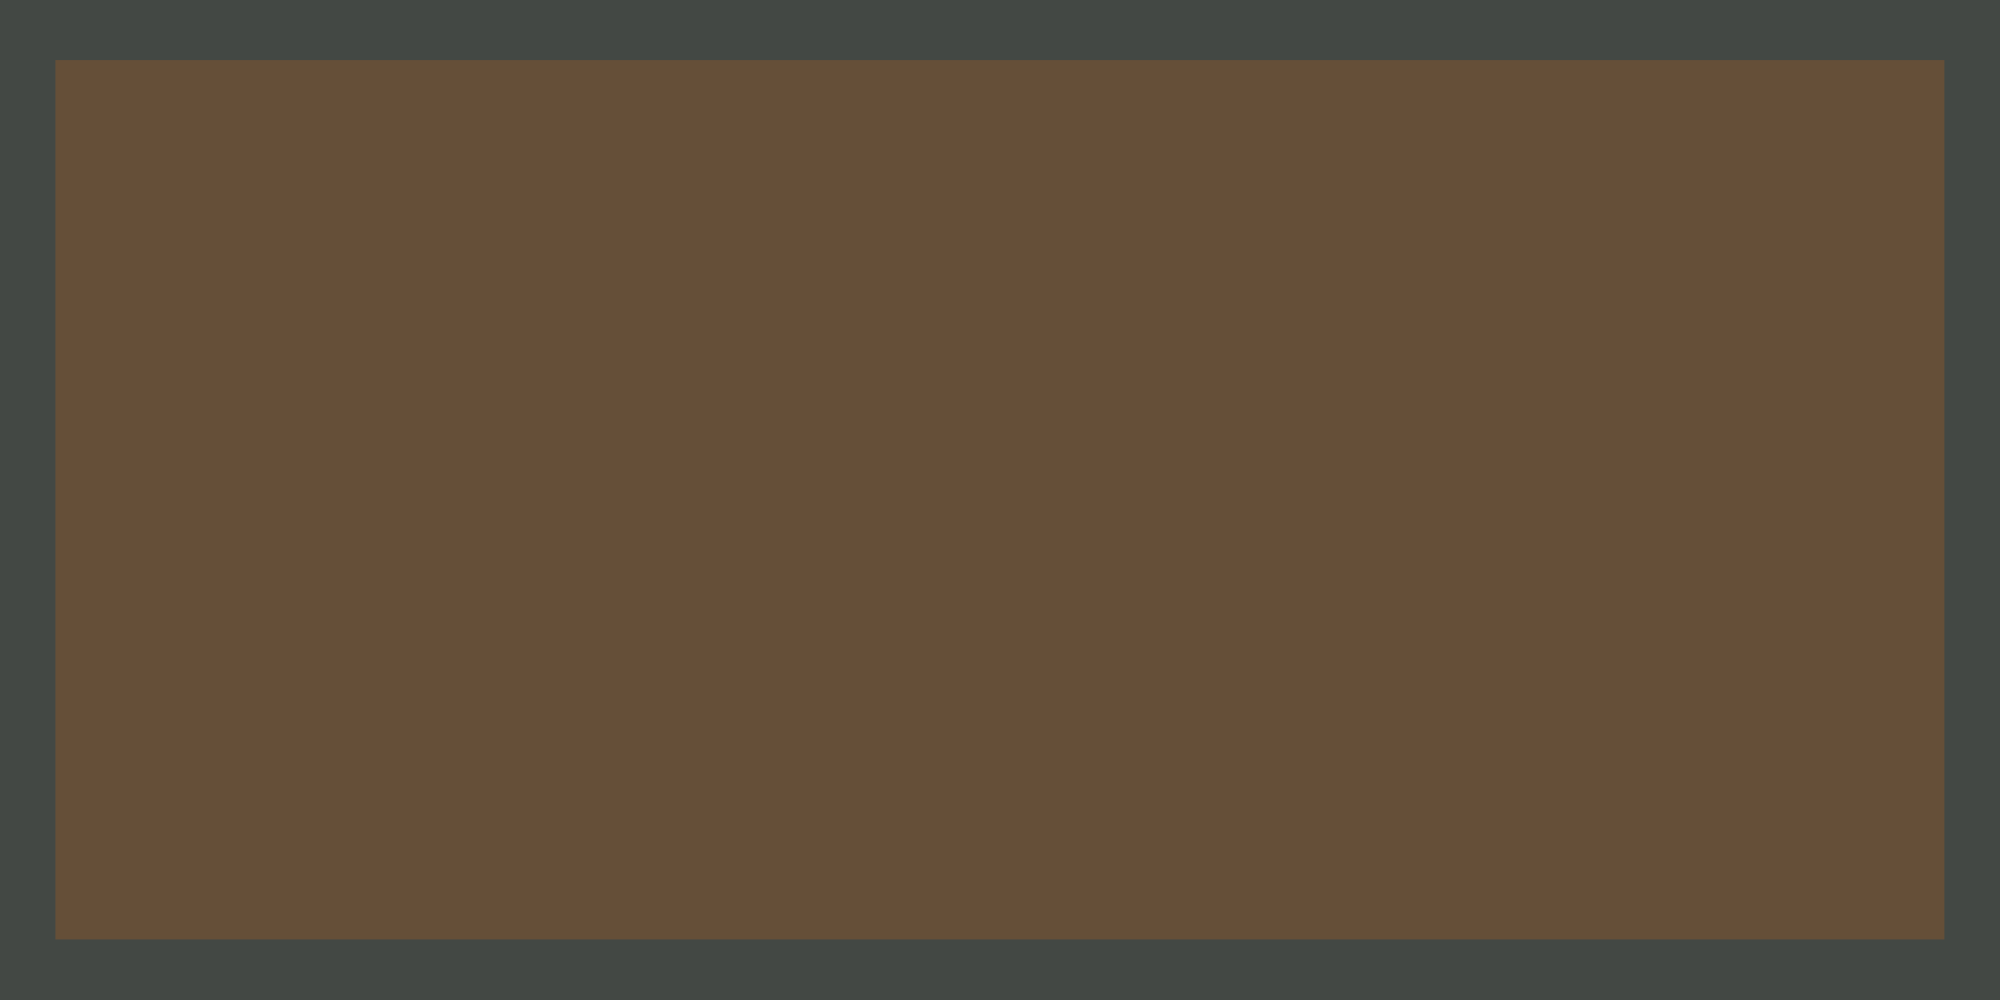
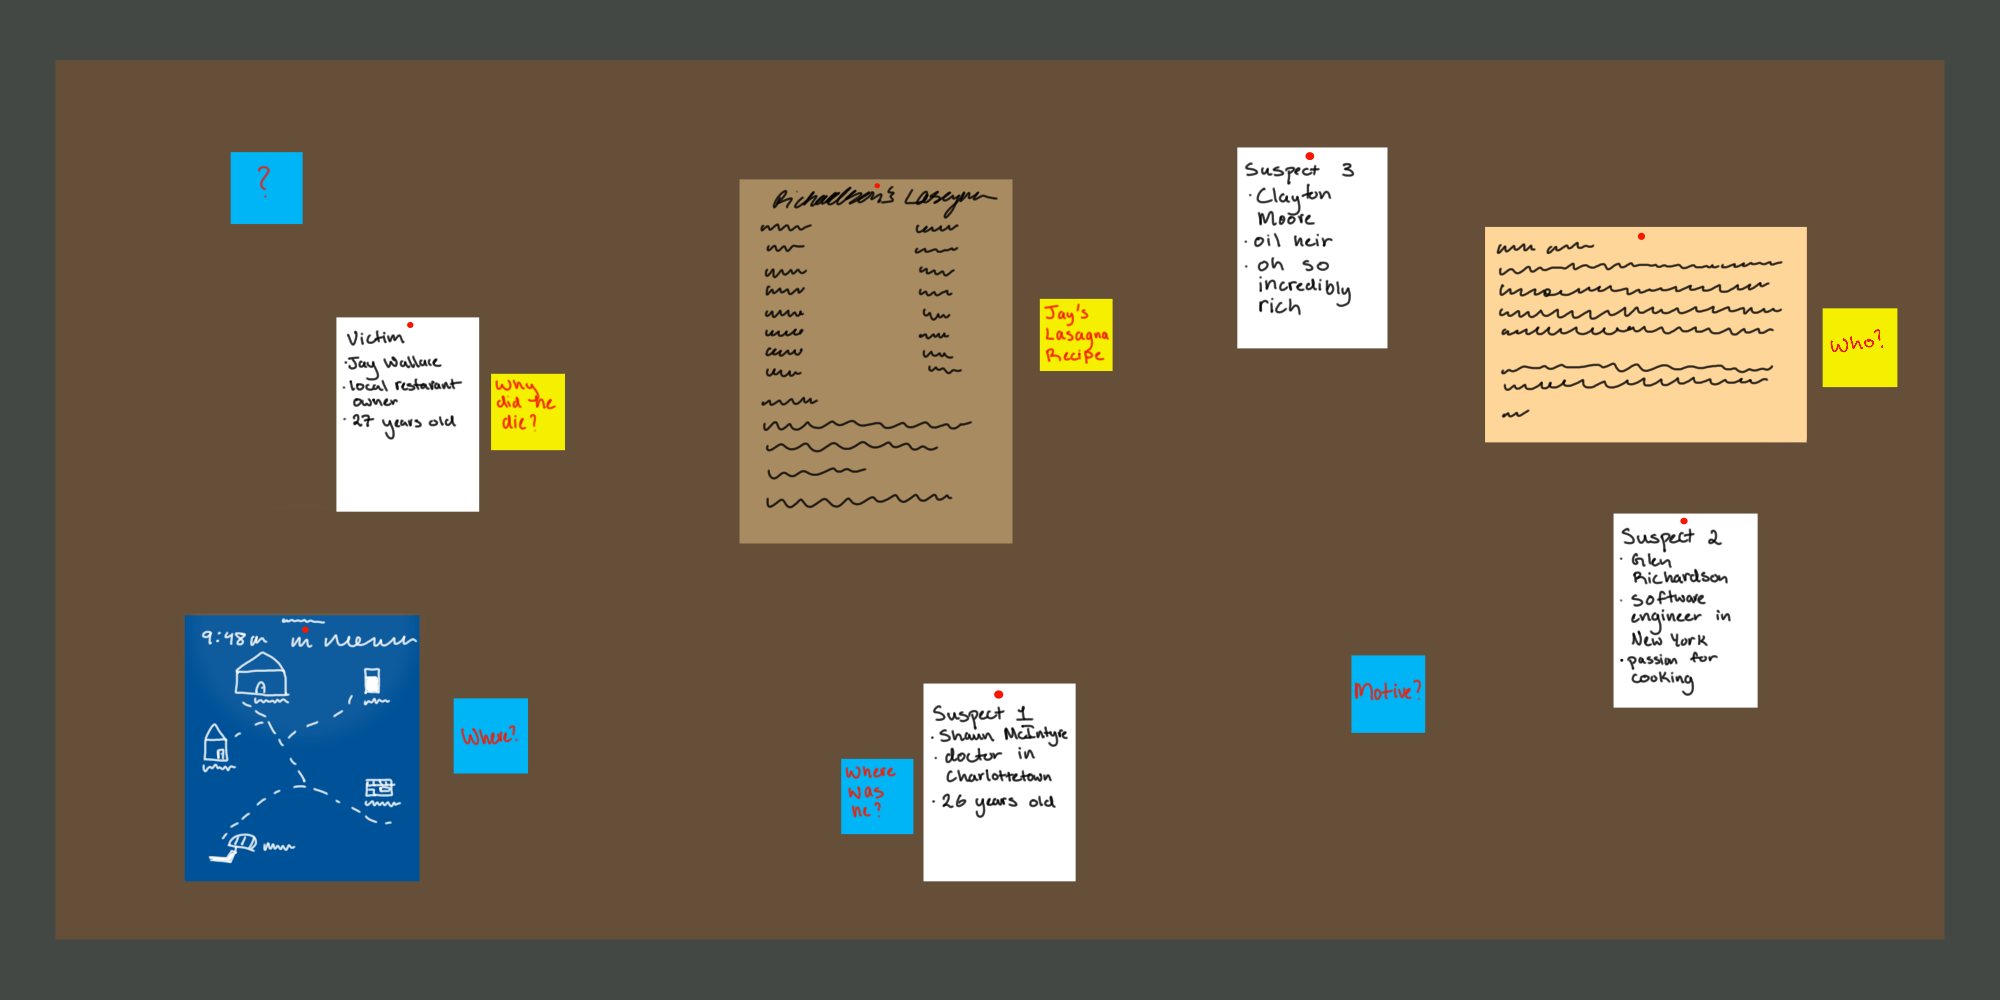
Add functions

diff --git a/main.c b/main.c
@@ -10,6 +10,7 @@
 #include <SDL2/SDL.h>
 #include <SDL2/SDL_timer.h>
 #include <SDL2/SDL_image.h>
+//#include <SDL_ttf.h>
 #include "secrets.h"
 #define EXIT_SUCCESS 0
 #define EXIT_FAILURE 1
@@ -51,7 +52,11 @@ int main(int argc, char *argv[]) {
 
     } // end of if statement
 
-    SDL_Rect continueButton = {800, 900, 400, 100};
+    // buttons
+    SDL_Rect continueButton = {1390, 875, 345, 80};
+    SDL_Rect map = {185, 614, 235, 266};
+    SDL_Rect recipe = {739, 180, 273, 364};
+    SDL_Rect letter = {1485, 226, 322, 218};
 
     bool run = true;
 
@@ -61,14 +66,6 @@ int main(int argc, char *argv[]) {
         SDL_SetWindowKeyboardGrab(window, SDL_TRUE);
         SDL_SetWindowMouseGrab(window, SDL_TRUE);
         SDL_SetWindowGrab(window, SDL_TRUE);
-        
-        // draw border
-        // SDL_SetRenderDrawColor(renderer, 255, 255, 255, SDL_ALPHA_OPAQUE);
-        // SDL_RenderFillRect(renderer, &border);
-
-        // draw corkboard
-        // SDL_SetRenderDrawColor(renderer, 189, 154, 122, SDL_ALPHA_OPAQUE);
-        // SDL_RenderFillRect(renderer, &corkboard);
 
         // render picture
         SDL_RenderCopy(renderer, introductionTexture, NULL, NULL);
@@ -93,8 +90,14 @@ int main(int argc, char *argv[]) {
                 int y = event.button.y; 
 
                 if (x >= continueButton.x && x <= (continueButton.x + continueButton.w) && y >= continueButton.y && y <= (continueButton.y + continueButton.h)) {
+
+                    SDL_RenderClear(renderer);
                 
                     SDL_RenderCopy(renderer, corkboardTexture, NULL, NULL);
+
+                    SDL_RenderDrawRect(renderer, &map);
+                    SDL_RenderDrawRect(renderer, &recipe);
+                    SDL_RenderDrawRect(renderer, &letter);
 
                     SDL_RenderPresent(renderer);
                     
@@ -106,6 +109,31 @@ int main(int argc, char *argv[]) {
 
                             run = false;
                         
+                            } // end of if statement
+
+                            if (event.type == SDL_MOUSEBUTTONDOWN) {
+
+                                int x = event.button.x; 
+                                int y = event.button.y; 
+
+                                if (x >= map.x && x <= (map.x + map.w) && y >= map.y && y <= (map.y + map.h)) {
+
+                                    openMap();
+
+                                } // end of if statement
+
+                                if (x >= recipe.x && x <= (recipe.x + recipe.w) && y >= recipe.y && y <= (recipe.y + recipe.h)) {
+
+                                    openRecipe();
+
+                                } // end of if statement
+
+                                if (x >= letter.x && x <= (letter.x + letter.w) && y >= letter.y && y <= (letter.y + letter.h)) {
+
+                                    Letter();
+
+                                } // end of if statement
+
                             } // end of if statement
 
                         } // end of while loop

diff --git a/secrets.h b/secrets.h
@@ -1,7 +1,6 @@
-<<<<<<< HEAD
 #include <SDL2/SDL.h>
 #include <SDL2/SDL_image.h>
 
-void Letter(SDL_Renderer *renderer);
+void Letter();
 void openRecipe();
-
+void openMap();
